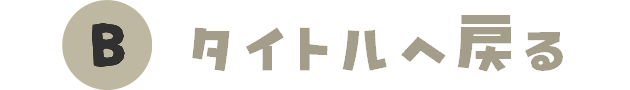
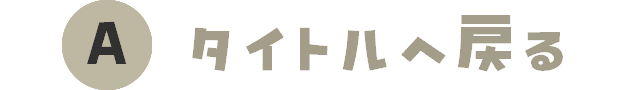
セレクト画面でのボタン切り替えと15ステージクリア時セレクトへを初期選択に設定

diff --git a/scene/SelectScene.cpp b/scene/SelectScene.cpp
@@ -184,7 +184,7 @@ void SelectScene::ChangeScene() {
     }
     XINPUT_STATE joyState;
     if (input_->GetJoystickState(0, joyState)) {
-        if (joyState.Gamepad.wButtons & XINPUT_GAMEPAD_B && !anyDecisionMade) {
+        if (joyState.Gamepad.wButtons & XINPUT_GAMEPAD_A && !anyDecisionMade) {
             sceneManager_->NextSceneReservation("TITLE");
         }
     }
@@ -305,7 +305,7 @@ void SelectScene::MapSelect() {
     // ゲームパッドのボタンA入力による決定処理
     XINPUT_STATE joyState;
     if (input_->GetJoystickState(0, joyState)) {
-        if (joyState.Gamepad.wButtons & XINPUT_GAMEPAD_A && !mapPrevs_[currentStage]->GetDecision()) {
+        if (joyState.Gamepad.wButtons & XINPUT_GAMEPAD_B && !mapPrevs_[currentStage]->GetDecision()) {
             mapPrevs_[currentStage]->SetDecision(true);
             audio_->PlayWave(desitionSE_, 0.2f);
         }

diff --git a/application/Scene/ClearScene/ClearUI.cpp b/application/Scene/ClearScene/ClearUI.cpp
@@ -44,7 +44,7 @@ void ClearUI::Init(bool isPlayerWhite) {
     if (stageNum_ < 15) {
         currentItem_ = 0;
     } else {
-        currentItem_ = 1;
+        currentItem_ = 2;
     }
     isDecision_ = false;
 
